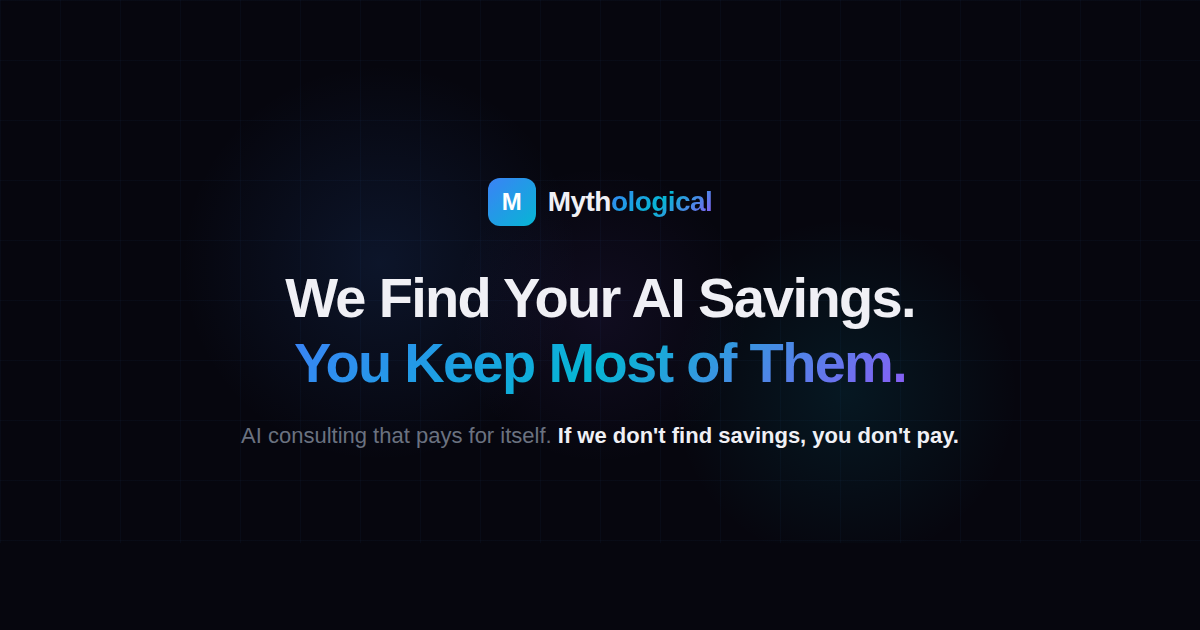
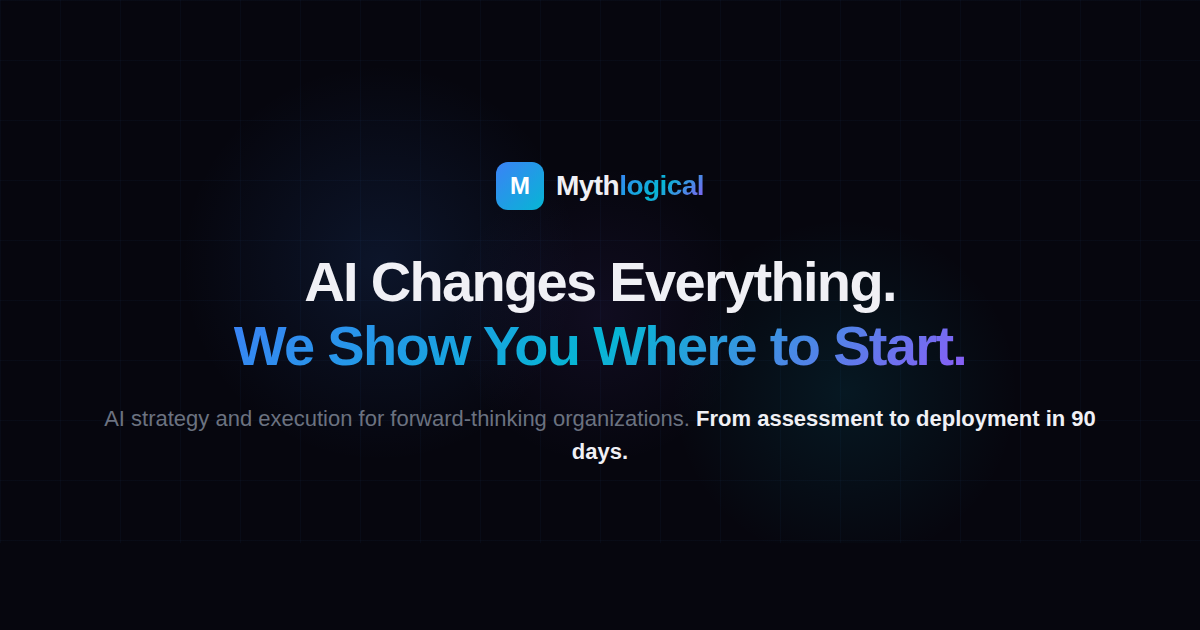
Reposition from savings pitch to AI guide
New headline: "AI Changes Everything. We Show You Where to Start."
- Hero: new tagline, subheadline, stats (efficiency/speed/customization), CTA
- Contact: strategy call framing, updated copy and bullets
- Insights: updated bottom CTA
- OG image regenerated with new messaging

Changed region(s): [[0.0925, 0.3921, 0.925, 0.754], [0.4008, 0.2413, 0.6167, 0.3619]]

diff --git a/src/components/Hero.tsx b/src/components/Hero.tsx
@@ -4,9 +4,9 @@ import { ArrowRight, TrendingUp, Shield, Zap } from "lucide-react";
 import { motion } from "framer-motion";
 
 const stats = [
-  { value: "40%", label: "Average Cost Reduction", icon: TrendingUp },
-  { value: "90 Days", label: "To Measurable ROI", icon: Zap },
-  { value: "0", label: "Risk to You", icon: Shield },
+  { value: "4x", label: "Operational Efficiency", icon: TrendingUp },
+  { value: "90 Days", label: "Strategy to Deployment", icon: Zap },
+  { value: "100%", label: "Tailored to Your Stack", icon: Shield },
 ];
 
 export default function Hero() {
@@ -38,9 +38,9 @@ export default function Hero() {
             transition={{ duration: 0.6, delay: 0.1 }}
             className="text-4xl sm:text-5xl lg:text-7xl font-bold tracking-tight leading-[1.1] mb-6"
           >
-            We Find Your AI Savings.
+            AI Changes Everything.
             <br />
-            <span className="gradient-text">You Keep Most of Them.</span>
+            <span className="gradient-text">We Show You Where to Start.</span>
           </motion.h1>
 
           {/* Subheadline */}
@@ -50,11 +50,11 @@ export default function Hero() {
             transition={{ duration: 0.6, delay: 0.2 }}
             className="text-lg sm:text-xl text-muted max-w-2xl mx-auto mb-10 leading-relaxed"
           >
-            We evaluate your business to determine exactly where AI can
-            eliminate waste, accelerate operations, and unlock new
-            efficiencies.{" "}
+            We help forward-thinking organizations cut through the noise,
+            identify the highest-impact opportunities, and deploy AI solutions
+            that actually work —{" "}
             <span className="text-foreground font-medium">
-              Real results, measurable from day one.
+              from strategy through execution.
             </span>
           </motion.p>
 
@@ -69,7 +69,7 @@ export default function Hero() {
               href="#contact"
               className="group inline-flex items-center justify-center gap-2 px-8 py-4 text-base font-semibold text-white bg-gradient-to-r from-accent to-accent-cyan rounded-full hover:opacity-90 transition-all pulse-cta"
             >
-              Calculate My Savings
+              Book a Strategy Call
               <ArrowRight
                 size={18}
                 className="group-hover:translate-x-1 transition-transform"

diff --git a/src/components/Contact.tsx b/src/components/Contact.tsx
@@ -65,21 +65,21 @@ export default function Contact() {
               Start Here
             </span>
             <h2 className="text-3xl sm:text-4xl lg:text-5xl font-bold tracking-tight mb-6">
-              Find Out What AI
+              Ready to See What AI
               <br />
-              <span className="gradient-text">Can Save Your Business</span>
+              <span className="gradient-text">Can Do for Your Business?</span>
             </h2>
             <p className="text-muted text-lg leading-relaxed mb-8">
-              Book a free, no-obligation discovery call. In 30 minutes,
-              we&apos;ll identify the highest-impact AI opportunities in your IT
-              operations — and give you a ballpark savings estimate before you
-              commit to anything.
+              Book a free, no-obligation strategy call. In 30 minutes,
+              we&apos;ll map the highest-impact AI opportunities in your
+              operations and outline a clear path forward — no jargon, no
+              pressure.
             </p>
 
             <div className="space-y-4 mb-8">
               {[
-                "Free 30-minute discovery call",
-                "Custom savings estimate for your business",
+                "Free 30-minute strategy call",
+                "Clear roadmap tailored to your business",
                 "No commitment — walk away with actionable insights",
                 "Proven methodology backed by real-world deployments",
               ].map((item) => (
@@ -254,7 +254,7 @@ export default function Contact() {
                     ) : (
                       <>
                         <Send size={18} />
-                        Get My Free Savings Estimate
+                        Book My Strategy Call
                         <ArrowRight
                           size={16}
                           className="group-hover:translate-x-1 transition-transform"

diff --git a/src/components/Insights.tsx b/src/components/Insights.tsx
@@ -138,7 +138,7 @@ export default function Insights() {
             href="#contact"
             className="inline-flex items-center gap-2 px-6 py-3 text-sm font-semibold text-white bg-gradient-to-r from-accent to-accent-cyan rounded-full hover:opacity-90 transition-opacity"
           >
-            Don&apos;t Get Left Behind — Talk to Us Today
+            Start Your AI Strategy Today
           </a>
         </motion.div>
       </div>

diff --git a/src/app/layout.tsx b/src/app/layout.tsx
@@ -37,7 +37,7 @@ export const metadata: Metadata = {
         url: "/og.png",
         width: 1200,
         height: 630,
-        alt: "Mythlogical — We Find Your AI Savings. You Keep Most of Them.",
+        alt: "Mythlogical — AI Changes Everything. We Show You Where to Start.",
       },
     ],
   },
